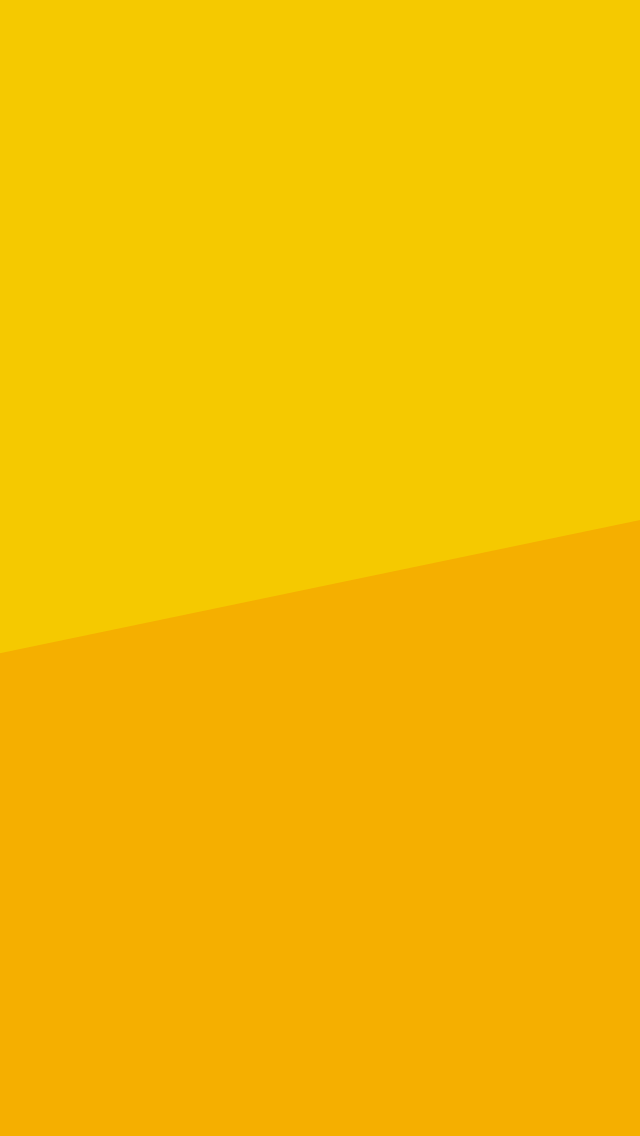
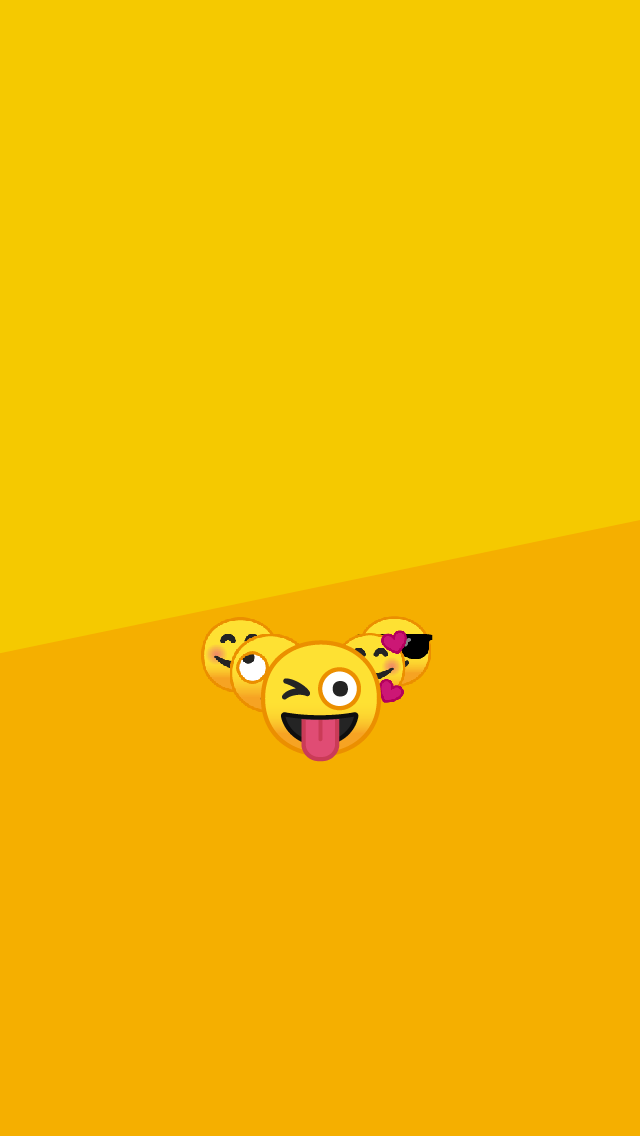
Added particle effect

Changed region(s): [[0.3125, 0.5238, 0.6875, 0.6778]]

diff --git a/gameobjects/smiley/smiley.go b/gameobjects/smiley/smiley.go
@@ -13,6 +13,21 @@ components {
     w: 1.0
   }
 }
+components {
+  id: "touched_smiley"
+  component: "/gameobjects/smiley/touched_smiley.particlefx"
+  position {
+    x: 0.0
+    y: 0.0
+    z: 0.0
+  }
+  rotation {
+    x: 0.0
+    y: 0.0
+    z: 0.0
+    w: 1.0
+  }
+}
 embedded_components {
   id: "sprite"
   type: "sprite"
